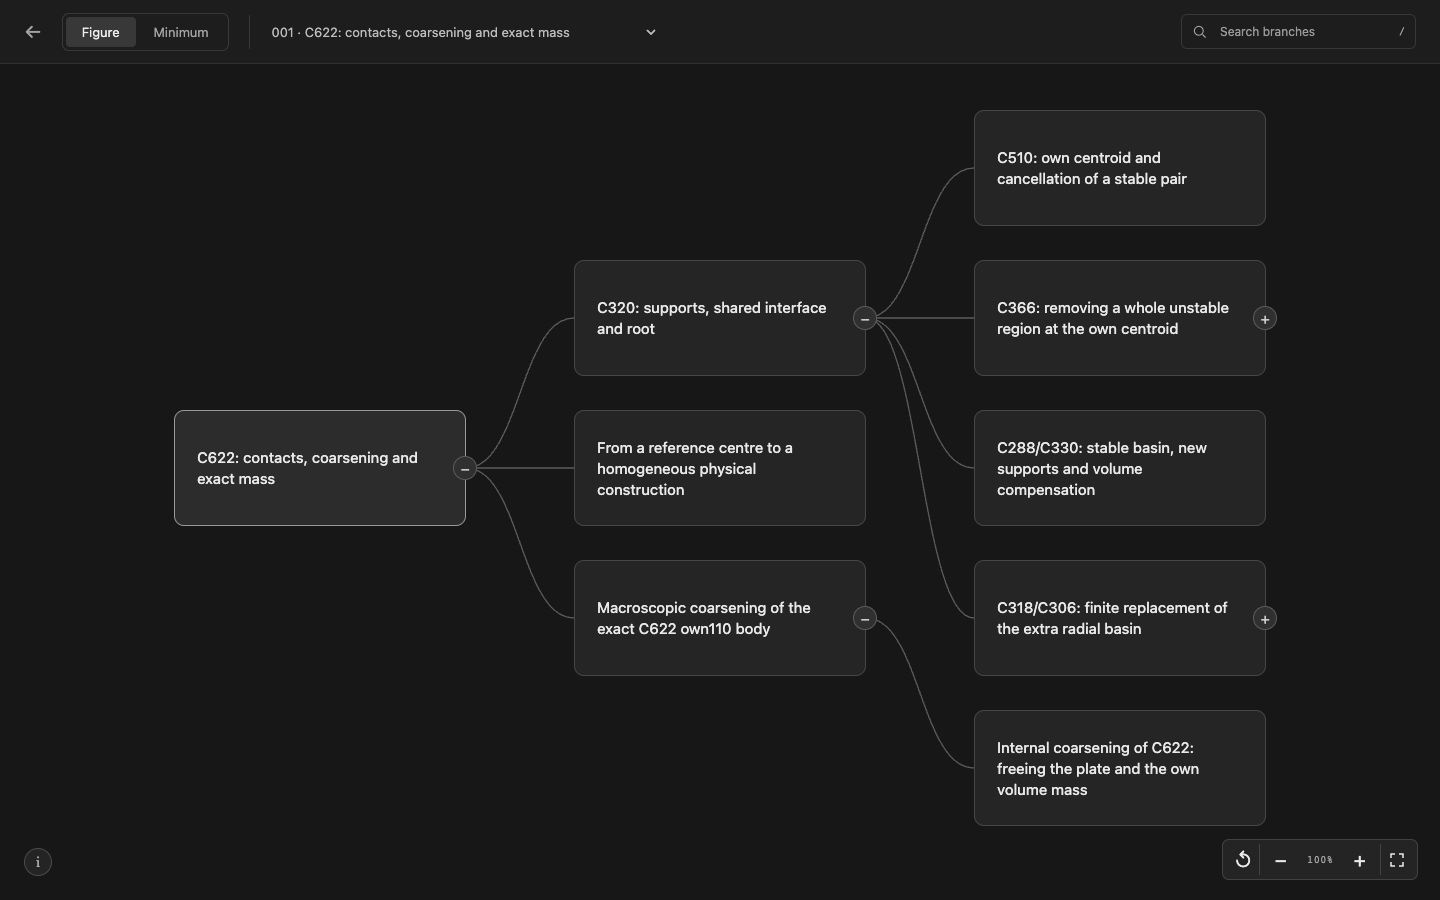
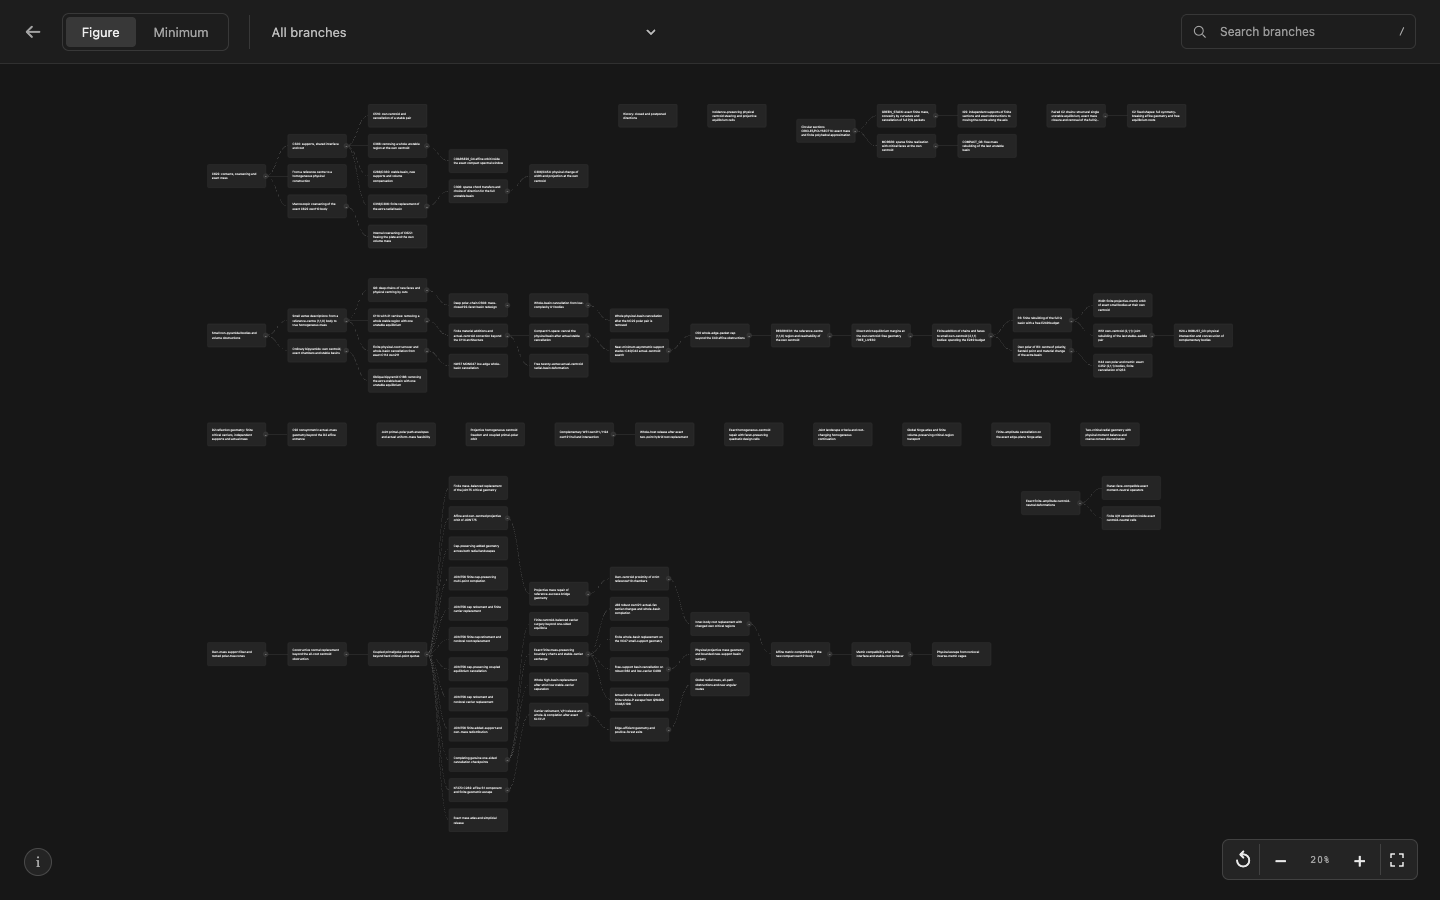
Show every study branch in the default research map

diff --git a/docs/research-map.js b/docs/research-map.js
@@ -5,6 +5,7 @@
   const $ = (id) => document.getElementById(id);
   const GITHUB = "https://github.com/ohresearchresults/gomboc-research/blob/main/";
   const STUDIES = { figure: "Figure", minimum: "Minimum" };
+  const MIN_SCALE = 0.04;
   const CARD = { width: 292, height: 116, column: 400, row: 150 };
   const state = { study: "figure", root: null, selected: null, expanded: new Set(), visible: [], positions: new Map(), width: 0, height: 0, x: 0, y: 0, scale: 1 };
   let data, branches, reports, children;
@@ -31,11 +32,16 @@
   function announce(text) { $("announcer").textContent = text; }
   function updateAddress() {
     // HTTP deep links can be copied and opened directly; local-file rendering also works.
-    if (location.protocol === "http:" || location.protocol === "https:") history.replaceState(null, "", `${location.pathname}${location.search}#${state.selected}`);
+    if (location.protocol === "http:" || location.protocol === "https:") history.replaceState(null, "", `${location.pathname}${location.search}#${state.selected || state.study}`);
   }
 
   function initialExpansion(root) {
-    state.expanded = new Set([root, ...children.get(root)]);
+    state.expanded = new Set();
+    function expand(id) {
+      state.expanded.add(id);
+      for (const child of children.get(id)) expand(child);
+    }
+    for (const branch of root ? [branches.get(root)] : roots(state.study)) expand(branch.id);
   }
   function updateStudyControls() {
     for (const button of document.querySelectorAll("[data-study]")) {
@@ -44,15 +50,31 @@
       button.tabIndex = current ? 0 : -1;
     }
     $("study-panel").setAttribute("aria-labelledby", `tab-${state.study}`);
-    $("root-select").replaceChildren(...roots(state.study).map((branch) => {
+    const all = element("option", "", "All branches");
+    all.value = "";
+    $("root-select").replaceChildren(all, ...roots(state.study).map((branch) => {
       const option = element("option", "", `${number(branch.id)} · ${branch.title}`);
       option.value = branch.id;
       return option;
     }));
-    $("root-select").value = state.root;
-    $("root-select").title = `${data.stats.studies[state.study].roots} roots with no recorded parent. ${branches.get(state.root).title}`;
+    $("root-select").value = state.root || "";
+    $("root-select").title = state.root ? branches.get(state.root).title : "All recorded branches in this study";
+  }
+  function chooseStudy(study) {
+    state.study = study;
+    state.root = null;
+    state.selected = null;
+    initialExpansion(null);
+    closeSearch();
+    updateStudyControls();
+    setInspectorOpen(false);
+    $("inspector-content").replaceChildren();
+    renderMap();
+    updateAddress();
+    announce(`${STUDIES[study]}: all ${state.visible.length} branches shown.`);
   }
   function chooseRoot(id) {
+    if (!id) return chooseStudy(state.study);
     const branch = branches.get(id);
     state.study = branch.study;
     state.root = id;
@@ -69,11 +91,15 @@
   function navigateTo(id, focus = false) {
     if (!branches.has(id)) return;
     const path = ancestry(id);
-    state.study = branches.get(id).study;
-    if (state.root !== path[0]) {
+    const study = branches.get(id).study;
+    const changedStudy = state.study !== study;
+    state.study = study;
+    if (changedStudy) state.root = null;
+    if (state.root && state.root !== path[0]) {
       state.root = path[0];
       initialExpansion(state.root);
     }
+    if (changedStudy || !state.expanded.size) initialExpansion(state.root);
     for (const ancestor of path.slice(0, -1)) state.expanded.add(ancestor);
     state.selected = id;
     closeSearch();
@@ -81,6 +107,7 @@
     renderMap();
     renderInspector();
     setInspectorOpen(true);
+    focusSelection();
     updateAddress();
     if (focus) document.querySelector(`[data-node-id="${id}"] .node-card`).focus({ preventScroll: true });
     announce(`${branches.get(id).title}. ${statusText(branches.get(id))}.`);
@@ -90,29 +117,49 @@
     highlightSelection();
     renderInspector();
     setInspectorOpen(true);
+    focusSelection();
     updateAddress();
     announce(`${branches.get(id).title}. ${statusText(branches.get(id))}. Details updated.`);
   }
 
   function layout() {
-    const columns = [];
     state.visible = [];
-    function visit(id, depth) {
-      state.visible.push(id);
-      (columns[depth] ||= []).push(id);
-      if (state.expanded.has(id)) for (const child of children.get(id)) visit(child, depth + 1);
-    }
-    visit(state.root, 0);
-    // Preserve catalog sibling order. Compact each depth independently so shallow
-    // leaves do not create empty rows in every later column. No synthetic edges.
-    const rows = Math.max(...columns.map((column) => column.length));
-    state.height = (rows - 1) * CARD.row + CARD.height;
-    state.width = (columns.length - 1) * CARD.column + CARD.width;
     state.positions = new Map();
-    columns.forEach((column, depth) => {
-      const top = (rows - column.length) * CARD.row / 2;
-      column.forEach((id, row) => state.positions.set(id, { x: depth * CARD.column, y: top + row * CARD.row }));
+    // Each component contains only its recorded parent edges. Pack the separate
+    // trees into available rows without inventing a common scientific ancestor.
+    const trees = (state.root ? [branches.get(state.root)] : roots(state.study)).map((root) => {
+      const columns = [];
+      function visit(id, depth) {
+        state.visible.push(id);
+        (columns[depth] ||= []).push(id);
+        if (state.expanded.has(id)) for (const child of children.get(id)) visit(child, depth + 1);
+      }
+      visit(root.id, 0);
+      const rows = Math.max(...columns.map((column) => column.length));
+      const height = (rows - 1) * CARD.row + CARD.height;
+      const width = (columns.length - 1) * CARD.column + CARD.width;
+      return { columns, rows, width, height };
     });
+    const maxWidth = Math.max(...trees.map((tree) => tree.width));
+    const gap = CARD.row;
+    const shelves = [];
+    state.width = 0;
+    state.height = 0;
+    for (const tree of trees) {
+      let shelf = shelves.find((row) => tree.height <= row.height && row.used + gap + tree.width <= maxWidth);
+      if (!shelf) {
+        shelf = { y: shelves.length ? state.height + gap : 0, height: tree.height, used: 0 };
+        shelves.push(shelf);
+        state.height = shelf.y + tree.height;
+      }
+      const left = shelf.used ? shelf.used + gap : 0;
+      tree.columns.forEach((column, depth) => {
+        const top = shelf.y + (tree.rows - column.length) * CARD.row / 2;
+        column.forEach((id, row) => state.positions.set(id, { x: left + depth * CARD.column, y: top + row * CARD.row }));
+      });
+      shelf.used = left + tree.width;
+      state.width = Math.max(state.width, shelf.used);
+    }
   }
   function renderMap() {
     layout();
@@ -229,6 +276,7 @@
     return item;
   }
   function renderInspector() {
+    if (!state.selected) return;
     const branch = branches.get(state.selected);
     const content = $("inspector-content");
     const status = element("div", `detail-status ${branch.recorded_status}`);
@@ -276,7 +324,7 @@
   function applyTransform() {
     $("map-world").style.transform = `translate(${state.x}px,${state.y}px) scale(${state.scale})`;
     $("zoom-level").textContent = `${Math.round(state.scale * 100)}%`;
-    $("zoom-out").disabled = state.scale <= 0.12;
+    $("zoom-out").disabled = state.scale <= MIN_SCALE;
     $("zoom-in").disabled = state.scale >= 1.8;
   }
   function fitView() {
@@ -285,15 +333,24 @@
     const height = viewport.clientHeight;
     if (!width || !height || !state.width) return;
     const top = 40, bottom = 68;
-    state.scale = Math.max(0.12, Math.min(1, (width - 48) / state.width, (height - top - bottom) / state.height));
+    state.scale = Math.max(MIN_SCALE, Math.min(1, (width - 48) / state.width, (height - top - bottom) / state.height));
     state.x = (width - state.width * state.scale) / 2;
     state.y = top + (height - top - bottom - state.height * state.scale) / 2;
+    applyTransform();
+  }
+  function focusSelection() {
+    const point = state.positions.get(state.selected);
+    if (!point) return;
+    const viewport = $("map-viewport");
+    state.scale = Math.max(state.scale, Math.min(0.85, (viewport.clientWidth - 48) / CARD.width));
+    state.x = viewport.clientWidth / 2 - (point.x + CARD.width / 2) * state.scale;
+    state.y = viewport.clientHeight / 2 - (point.y + CARD.height / 2) * state.scale;
     applyTransform();
   }
   function zoom(factor, origin) {
     const viewport = $("map-viewport");
     const anchor = origin || { x: viewport.clientWidth / 2, y: viewport.clientHeight / 2 };
-    const scale = Math.max(0.12, Math.min(1.8, state.scale * factor));
+    const scale = Math.max(MIN_SCALE, Math.min(1.8, state.scale * factor));
     state.x = anchor.x - (anchor.x - state.x) * scale / state.scale;
     state.y = anchor.y - (anchor.y - state.y) * scale / state.scale;
     state.scale = scale;
@@ -345,7 +402,7 @@
     $("root-select").addEventListener("change", (event) => chooseRoot(event.target.value));
     const tabs = [...document.querySelectorAll("[data-study]")];
     for (const button of tabs) {
-      button.addEventListener("click", () => chooseRoot(roots(button.dataset.study)[0].id));
+      button.addEventListener("click", () => chooseStudy(button.dataset.study));
       button.addEventListener("keydown", (event) => {
         if (!["ArrowLeft", "ArrowRight", "Home", "End"].includes(event.key)) return;
         event.preventDefault();
@@ -437,7 +494,7 @@
         else zoom(key === "-" ? 1 / 1.2 : 1.2);
       }
     });
-    new ResizeObserver(fitView).observe(viewport);
+    new ResizeObserver(() => $("inspector").hidden ? fitView() : focusSelection()).observe(viewport);
     $("coverage-open").addEventListener("click", (event) => {
       event.preventDefault();
       $("coverage-dialog").showModal();
@@ -445,7 +502,8 @@
     $("coverage-close").addEventListener("click", () => $("coverage-dialog").close());
     window.addEventListener("hashchange", () => {
       const id = location.hash.slice(1);
-      if (branches.has(id) && state.selected !== id) navigateTo(id);
+      if (STUDIES[id]) chooseStudy(id);
+      else if (branches.has(id) && state.selected !== id) navigateTo(id);
     });
   }
 
@@ -485,9 +543,9 @@
     bindControls();
     const params = new URLSearchParams(location.search);
     const selected = location.hash.slice(1) || params.get("branch");
-    const study = params.get("study");
+    const study = STUDIES[selected] ? selected : params.get("study");
     if (selected && branches.has(selected)) navigateTo(selected);
-    else chooseRoot(roots(study && STUDIES[study] ? study : "figure")[0].id);
+    else chooseStudy(study && STUDIES[study] ? study : "figure");
     document.documentElement.dataset.mapReady = "true";
   }
 

diff --git a/docs/research-map.html b/docs/research-map.html
@@ -19,7 +19,7 @@
         <button id="tab-figure" role="tab" aria-selected="true" aria-controls="study-panel" data-study="figure">Figure</button>
         <button id="tab-minimum" role="tab" aria-selected="false" aria-controls="study-panel" data-study="minimum" tabindex="-1">Minimum</button>
       </div>
-      <select id="root-select" aria-label="Root direction: branches with no recorded parent"></select>
+      <select id="root-select" aria-label="Show all branches or focus on one root"></select>
       <div class="search-area">
         <label class="search-box" for="branch-search"><svg viewBox="0 0 20 20" aria-hidden="true"><circle cx="8.5" cy="8.5" r="5.5"/><path d="m13 13 4 4"/></svg><input id="branch-search" type="search" aria-label="Search all branches by title, branch ID, or linked report ID" placeholder="Search branches" autocomplete="off" aria-controls="search-results" aria-expanded="false"><kbd>/</kbd></label>
         <div id="search-results" class="search-results" hidden></div>
@@ -32,7 +32,7 @@
         </div>
         <button id="coverage-open" class="info-button" aria-label="About this map" title="About this map">i</button>
         <div class="map-controls" aria-label="Map controls">
-          <button id="reset-view" aria-label="Reset expanded branches" title="Reset expanded branches">↺</button>
+          <button id="reset-view" aria-label="Reset expanded branches" title="Show all branches in the selected view">↺</button>
           <button id="zoom-out" aria-label="Zoom out" title="Zoom out (−)">−</button><output id="zoom-level" aria-label="Zoom level">100%</output><button id="zoom-in" aria-label="Zoom in" title="Zoom in (+)">+</button>
           <button id="fit-view" aria-label="Fit visible branches" title="Fit visible branches (F)"><svg viewBox="0 0 16 16" aria-hidden="true"><path d="M6 2H2v4m8-4h4v4M2 10v4h4m8-4v4h-4"/></svg></button>
         </div>
@@ -48,7 +48,7 @@
   <dialog id="coverage-dialog" aria-labelledby="coverage-title">
     <div class="dialog-heading"><button id="coverage-close" aria-label="Close map information">×</button></div>
     <h2 id="coverage-title">About this map</h2>
-    <p>Each card is a saved research branch. Every curve is an explicit parent link from the public catalog. Root directions have no recorded parent; choosing a root does not imply a scientific relationship between roots or studies.</p>
+    <p>Each card is a saved research branch. Every curve is an explicit parent link from the public catalog. All branches are shown by default. The dropdown can focus on one root. Separate trees have no recorded parent link between them.</p>
     <p>Open and closed describe saved checkpoints, not current activity or whether a mathematical claim was proved. Titles preserve the public English branch labels; report titles preserve the indexed wording and may be in another language.</p>
     <div id="coverage-detail"></div>
     <p>Linked reports are historical AI scientific reports, including incomplete and superseded claims. The preserved <a href="https://github.com/ohresearchresults/gomboc-research/blob/main/C622/README.md">C622 endpoint has supplied exact checks</a>. C &lt; 500 remains open; Minimum’s proposed C ≥ 34 bound still needs a consolidated proof. The checks are not external peer review.</p>

diff --git a/docs/research-map.css b/docs/research-map.css
@@ -52,7 +52,7 @@ kbd { font: 11px var(--mono); color: var(--muted); }
 .map-viewport:focus-visible { outline-offset: -4px; }
 .map-world { position: absolute; left: 0; top: 0; transform-origin: 0 0; will-change: transform; }
 #map-edges { position: absolute; inset: 0; overflow: visible; pointer-events: none; }
-.branch-edge { fill: none; stroke: #5b5b5b; stroke-width: 1.3; }
+.branch-edge { fill: none; stroke: #5b5b5b; stroke-width: 1; vector-effect: non-scaling-stroke; }
 .branch-edge.lineage { stroke: #aaa; stroke-width: 1.5; }
 .node { width: 292px; height: 116px; position: absolute; border: 1px solid #474747; border-radius: 10px; background: #252525; }
 .node.selected { border-color: #999; background: #2c2c2c; }
